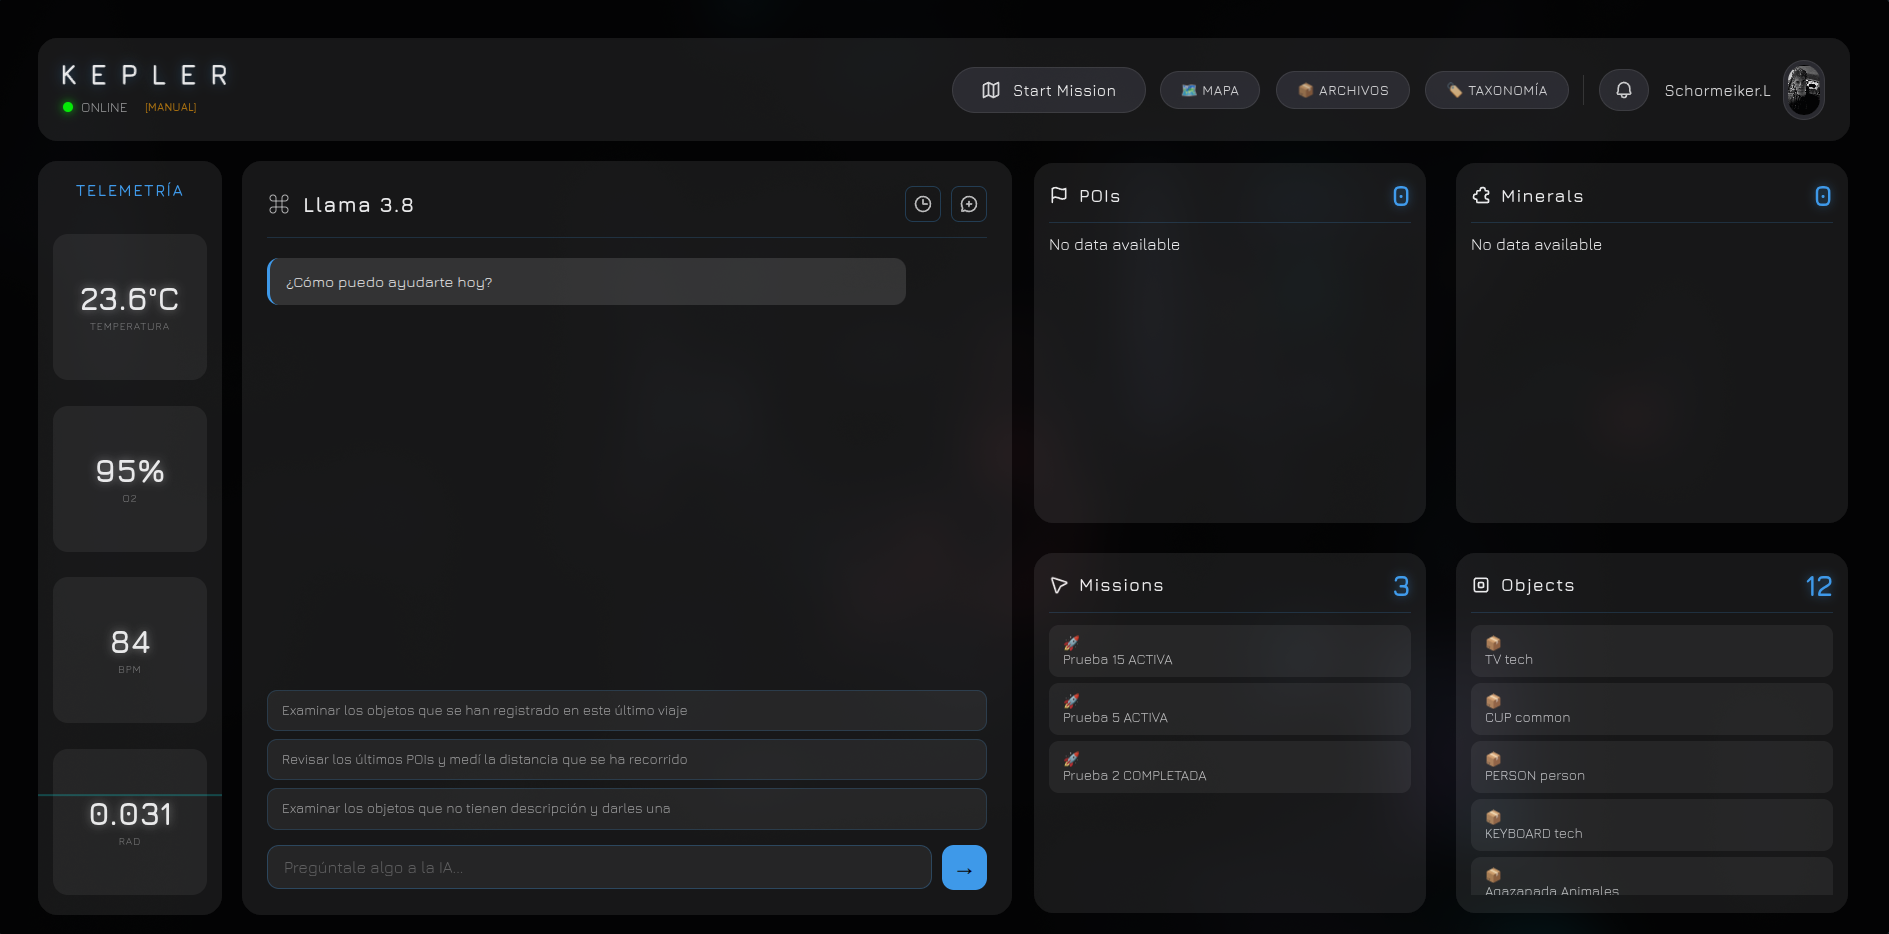
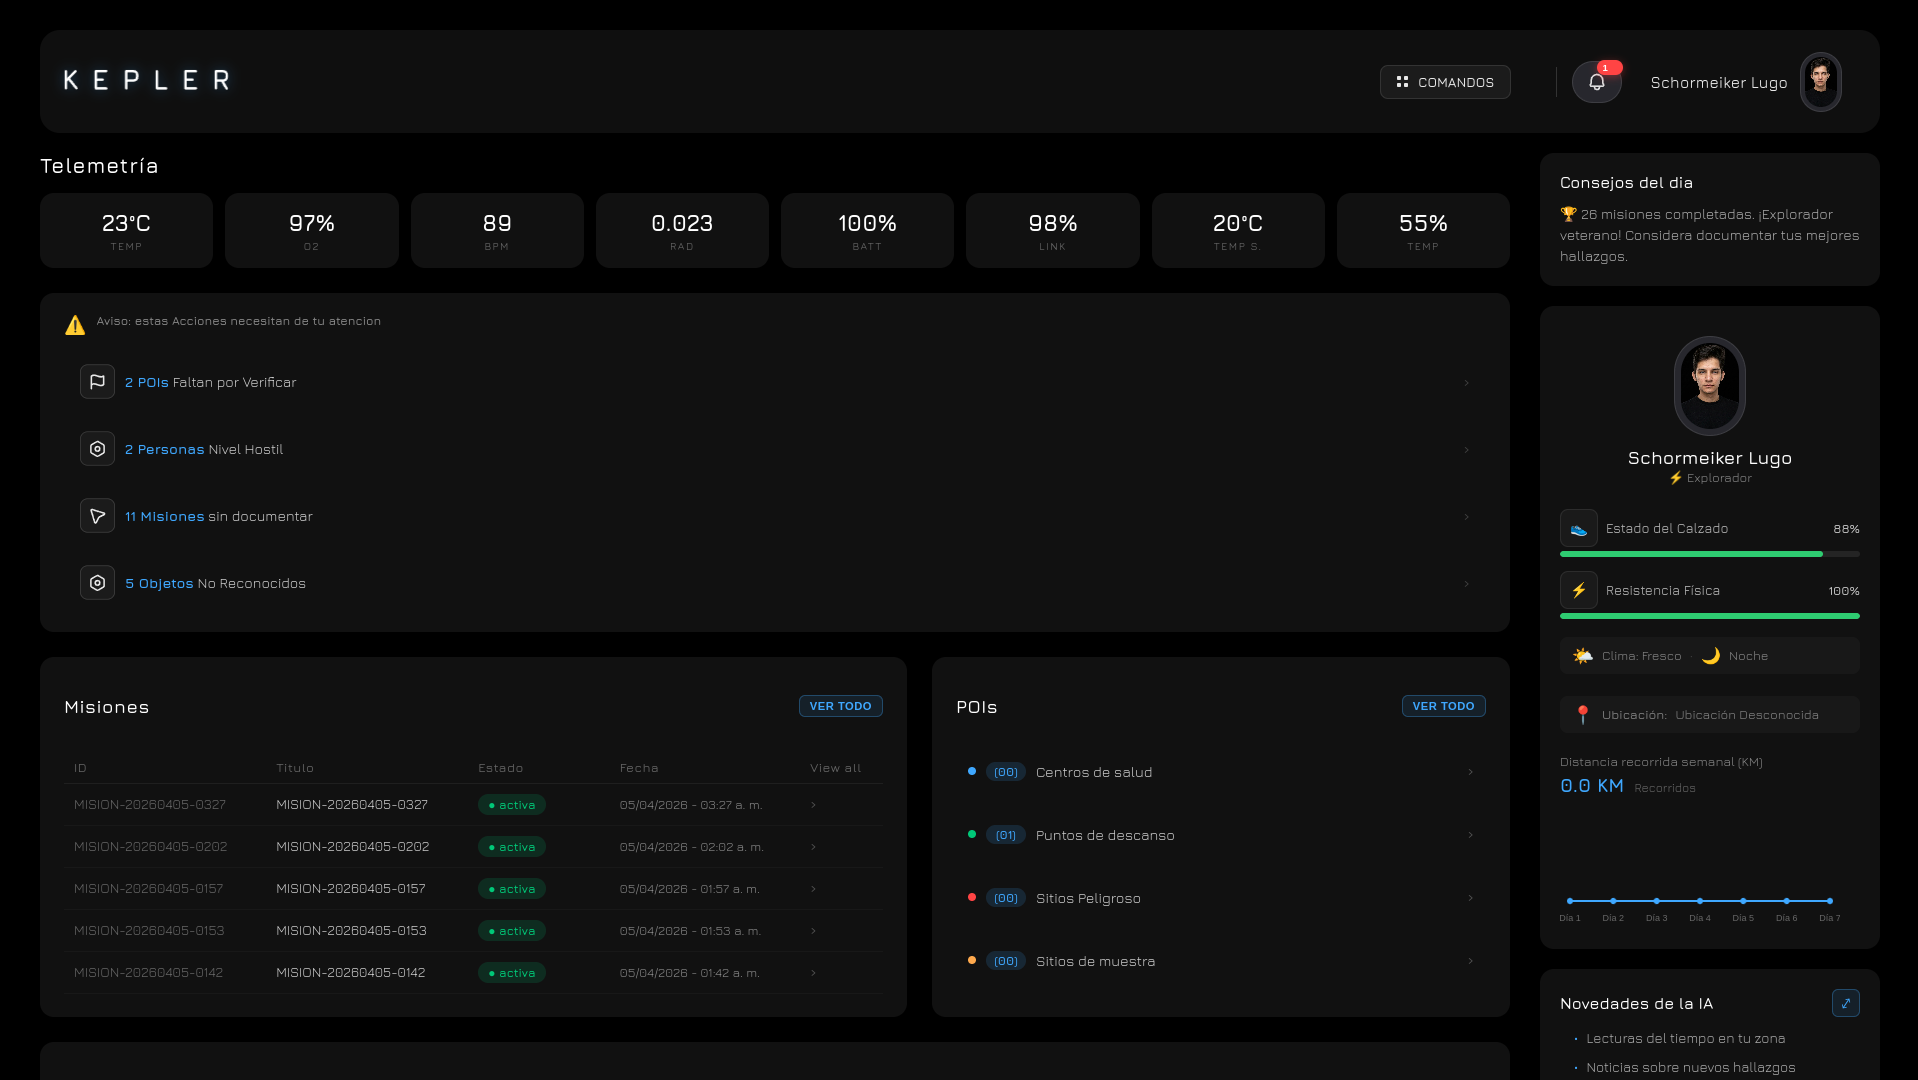
docs: actualizar galería de imágenes en README y archivos de capturas

diff --git a/README.md b/README.md
@@ -116,24 +116,44 @@ KEPLER no depende de la nube para funcionar. Su arquitectura está diseñada par
 ## 📸 Galería del Sistema
 
 <div align="center">
-  <img src="capture/1.png" width="100%" alt="Captura 1">
+  <img src="capture/1.png" width="100%" alt="Vista Principal del Centro de Control">
   <p><em>Vista Principal del Centro de Control</em></p>
   
   <br>
 
-  <img src="capture/2.png" width="100%" alt="Captura 2">
-  <p><em>Interfaz de Análisis de Misión</em></p>
-
-  <br>
-
-  <div style="display: flex; justify-content: center; gap: 2%; margin-top: 20px;">
-    <div style="width: 49%;">
-      <img src="capture/3.png" width="100%" alt="Captura 3">
-      <p><em>Visualización Móvil</em></p>
+  <div style="display: flex; flex-wrap: wrap; justify-content: center; gap: 2%; margin-top: 20px;">
+    <div style="width: 49%; margin-bottom: 15px;">
+      <img src="capture/2.png" width="100%" alt="Captura 2">
     </div>
-    <div style="width: 49%;">
-      <img src="capture/4.png" width="100%" alt="Captura 4">
-      <p><em>Interfaz AR</em></p>
+    <div style="width: 49%; margin-bottom: 15px;">
+      <img src="capture/3.png" width="100%" alt="Captura 3">
+    </div>
+    <div style="width: 49%; margin-bottom: 15px;">
+      <img src="capture/5.png" width="100%" alt="Captura 5">
+    </div>
+    <div style="width: 49%; margin-bottom: 15px;">
+      <img src="capture/6.png" width="100%" alt="Captura 6">
+    </div>
+    <div style="width: 49%; margin-bottom: 15px;">
+      <img src="capture/7.png" width="100%" alt="Captura 7">
+    </div>
+    <div style="width: 49%; margin-bottom: 15px;">
+      <img src="capture/8.png" width="100%" alt="Captura 8">
+    </div>
+    <div style="width: 49%; margin-bottom: 15px;">
+      <img src="capture/9.png" width="100%" alt="Captura 9">
+    </div>
+    <div style="width: 49%; margin-bottom: 15px;">
+      <img src="capture/10.png" width="100%" alt="Captura 10">
+    </div>
+    <div style="width: 49%; margin-bottom: 15px;">
+      <img src="capture/11.png" width="100%" alt="Captura 11">
+    </div>
+    <div style="width: 49%; margin-bottom: 15px;">
+      <img src="capture/13.png" width="100%" alt="Captura 13">
+    </div>
+    <div style="width: 49%; margin-bottom: 15px;">
+      <img src="capture/14.png" width="100%" alt="Captura 14">
     </div>
   </div>
 </div>
